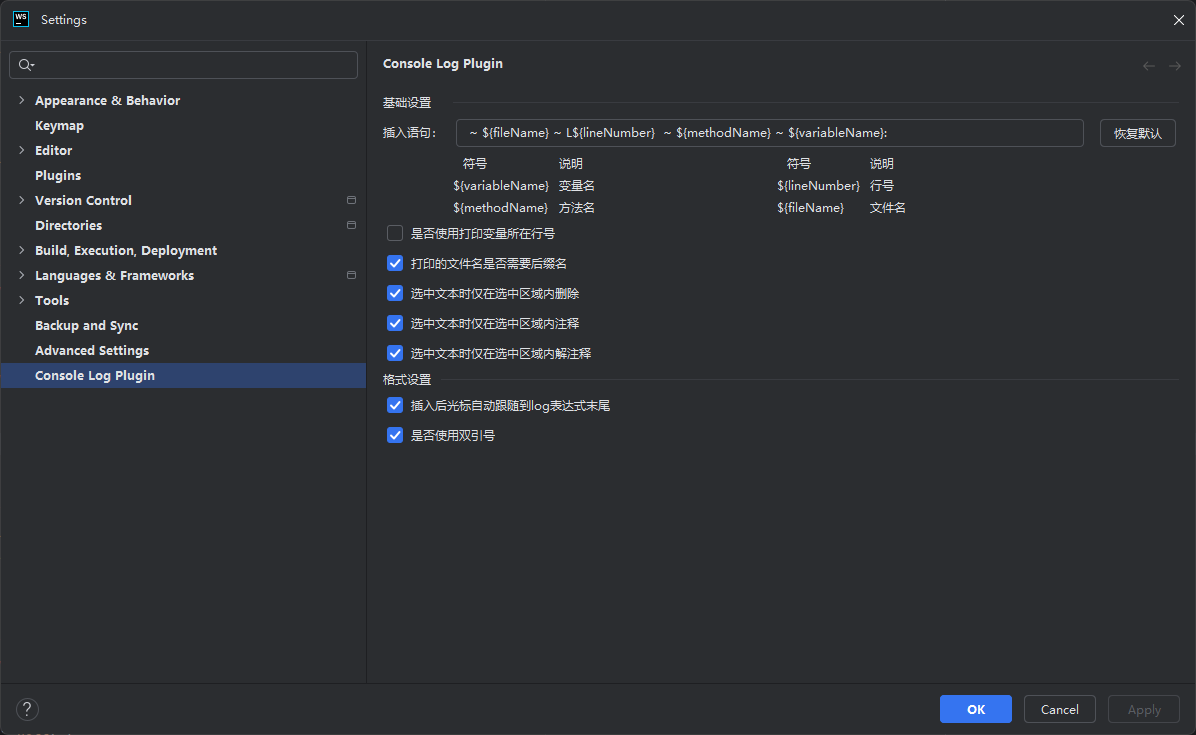
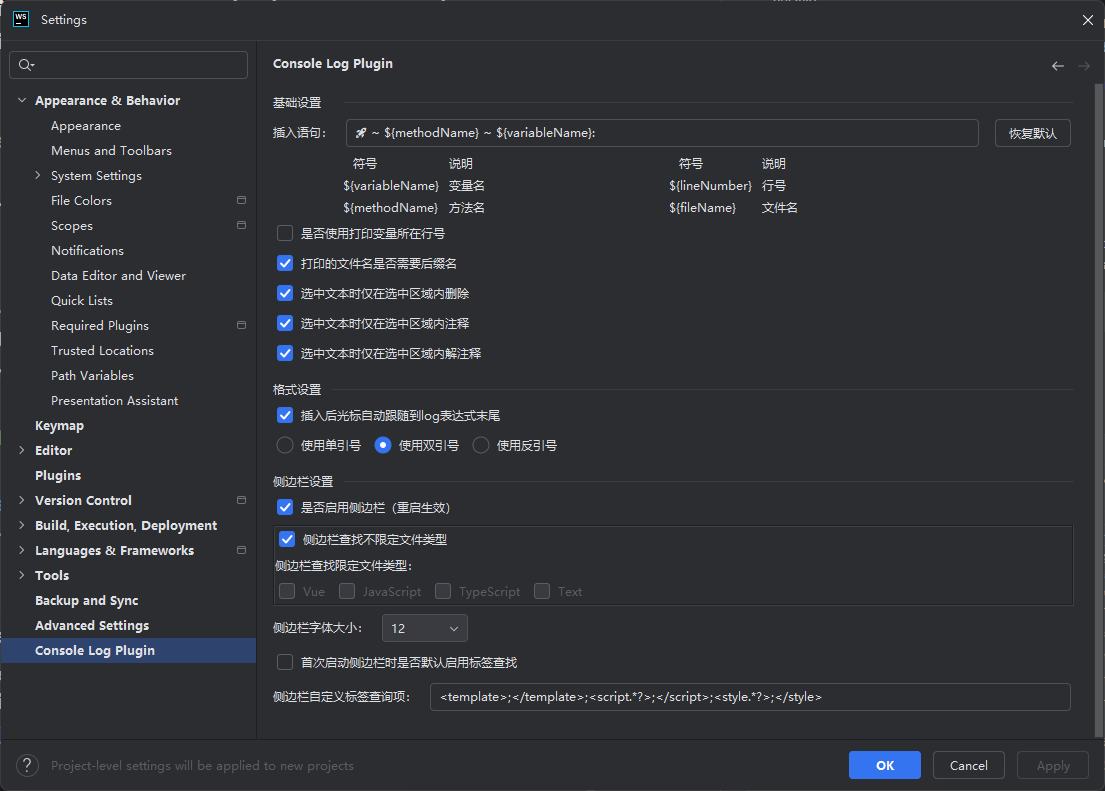
doc: 更新1.2.1版本文档

diff --git a/README.md b/README.md
@@ -49,7 +49,9 @@
 > 如果觉得插件对你的帮助很大很大，希望[github点个star](https://github.com/Littledogdudu/ConsoleLog)，真的感谢！
 
 # 设置项简介
+
 ![setting.png](.github/readme/setting.png)
+
 ## 基础设置
 ### 插入语句
 你可以通过输入下面【符号】列对应的占位符来实时获取文本中对应的变量名/方法名/行号/文件名  
@@ -64,13 +66,42 @@
 ### 选中文本时仅在选中区域内删除/注释/解注释
 默认启用：当选中文本时，删除/注释/解注释功能将仅在选中区域内生效  
 禁用后：无论是否选中文本，删除/注释/解注释功能都会在整个文件内生效
+
 ## 格式设置
 ### 插入后光标后自动跟随到log表达式末尾
 默认启用：插入后光标自动跟随到生成的console.log表达式末尾
 禁用后：光标停留在原本位置
-### 是否使用双引号
-默认启用：插入后生成的console.log表达式使用双引号包含
-禁用后：插入后生成的console.log表达式使用单引号包含
+### 使用单引号/双引号/反引号
+单选组，更改包裹console.log表达式文本所使用的引号类型
+
+## 侧边栏设置
+
+![sidebar.png](.github/readme/sidebar.png)
+
+### 侧边栏顶部查询选项设置按钮
+#### 展示注释项
+启用后：侧边栏将查询所有打印表达式，包含注释项
+默认禁用：侧边栏将查询所有打印表达式，不包含注释项
+#### 启用针对性查找
+启用后：侧边栏将查询所有符合插件生成规范的打印表达式
+默认禁用：侧边栏将查询所有console.log表达式
+#### 启用标签查找
+启用后：根据设置中设置的标签项继续查找，标签项为1级，表达式为2级（缩进2字符）
+禁用后：禁用标签查找
+
+### 是否启用侧边栏（重启生效）
+默认启用：启用侧边栏
+禁用后：禁用侧边栏
+### 侧边栏查找不限定文件类型
+默认启用：对当前打开的任何文件类型的文件都会启用侧边栏查找打印表达式
+禁用后：仅对当前打开的文件为选中文件类型的文件才会执行查找并显示在侧边栏
+### 侧边栏字体大小
+用来自定义设置侧边栏字体大小
+### 首次启动侧边栏时是否默认启用标签查找
+启用后：每次打开IDE时，侧边栏将默认启用侧边栏标签查找（标签项在下面的设置项可以进行设置）
+默认禁用：侧边栏不会默认启用标签查找（也可通过侧边栏顶部的【启用标签查找】临时更改）
+### 侧边栏自定义标签查询项
+自定义侧边栏查找的标签项，使用分号分割每个标签项，支持正则表达式
 
 ---
 
@@ -106,26 +137,57 @@ You can use the plugin on html code, but be careful: the statement is not remove
 > The idea from vscode plugin [turbo console log](https://github.com/Chakroun-Anas/turbo-console-log)
 
 # Setting description
+
 ![setting.png](.github/readme/setting.png)
-## 基础设置
-### 插入语句
+
+## Basic Setting
+### Insert Sentence
 You can obtain the corresponding variable name/method name/line number/file name in real-time in the text by entering the placeholder corresponding to the symbol column below  
 For example, the default is: 🚀 ~ \$ {methodName} ~ \${variableName}:&nbsp;  
 You can modify it to: 🚀 ~ \$ {fileName} ~ L(\${lineNumber}) ~ \${methodName} ~ \${variableName}:&nbsp;
-### 是否使用打印变量所在行号
+### Whether to use the line number where the print variable is located
 Default not enabled: The \${lineNumber} placeholder will be replaced with the line number where the generated console.log is located  
 After activation, the \${lineNumber} placeholder will be replaced with the line number of the variable that needs to be printed
-### 打印的文件名是否需要后缀名
+### whether the file name of the print needs a suffix
 Default enabled: The \${fileName} placeholder will be replaced with the file name of the generated console.log, including the suffix  
 After disabling: The \${fileName} placeholder will be replaced with the file name of the generated console.log, but it will not include the suffix
-### 选中文本时仅在选中区域内删除/注释/解注释
+### when selecting code text, it will be deleted/comment/uncomment only within the selected area
 Default enabled: When selecting text, the delete/comment/uncomment function will only take effect within the selected area  
 After disabling: Regardless of whether text is selected or not, the delete/comment/uncomment function will take effect throughout the entire file
-## 格式设置
-### 插入后光标后自动跟随到log表达式末尾
+
+## Format Setting
+### after insertion, the cursor automatically follows to the end of the log expression
 Default enabled: After insertion, the cursor automatically follows to the end of the generated console.log expression  
 After disabling: the cursor stays in its original position
-### 是否使用双引号
-Default enabled: The console.log expression generated after insertion is enclosed in double quotation marks  
-After disabling: The console.log expression generated after insertion is enclosed in single quotation marks 
+### single quotes/double quotes/back tick
+radio group to change the type of quotation marks used to wrap console.log expression text
+
+## Sidebar Setting
+
+![sidebar.png](.github/readme/sidebar.png)
+
+### Query option settings button at the top of the sidebar
+#### show comment
+When enabled: The sidebar will query all print expressions, including comment items
+Disabled by default: The sidebar will query all print expressions and do not contain comment items
+#### targeted lookup
+When enabled: The sidebar will query all print expressions that meet the plugin's generation specifications
+Disabled by default: The sidebar will query all console.log expressions
+#### tag lookup
+Enabled: Continue to search according to the label items set in the settings, the label item is level 1, and the expression is level 2 (indented 2 characters)
+Disabled: Disables tag lookup
+
+### whether to enable the sidebar (restart takes effect)
+Enabled by default: Enables the sidebar
+After disabled: Disable the sidebar
+### sidebar lookup is not limited to file types
+Enabled by default: Enables sidebar lookup for print expressions for any file type that is currently open
+After disabled: Only files that are currently open and of the Chinese file type are searched and displayed in the sidebar
+### sidebar font size
+Used to customize the sidebar font size
+### label lookup is enabled by default when you first launch the sidebar
+Enabled: Every time you open the IDE, the sidebar will enable sidebar label lookup by default (the label items can be set in the settings below items)
+Disabled by default: The sidebar does not enable tag lookup by default (it can also be temporarily changed via Enable Tag Lookup at the top of the sidebar)
+### sidebar custom label query items
+Customize the tag items found in the sidebar, use semicolons to split each tag item, and support regular expressions
 <!-- Plugin description end -->
